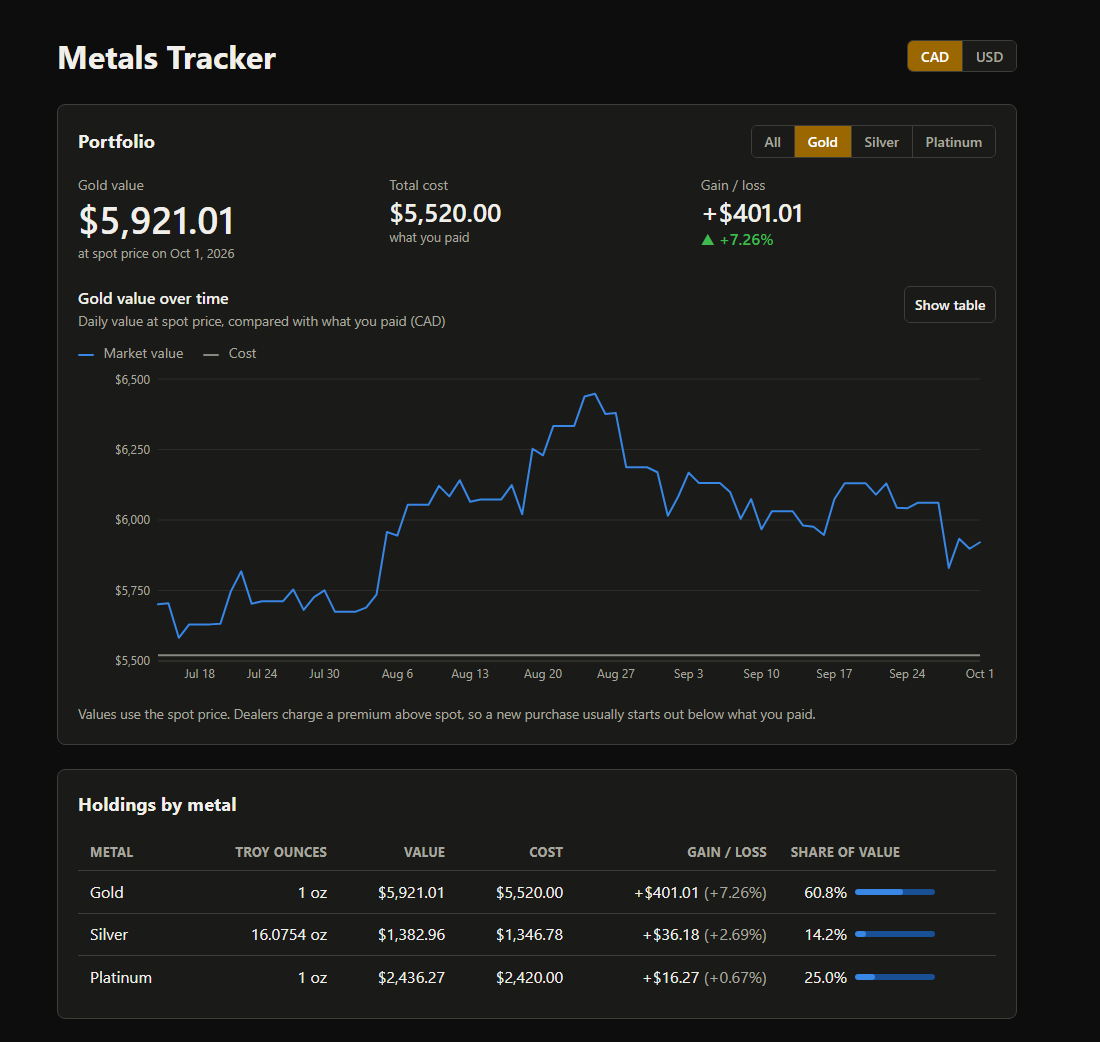
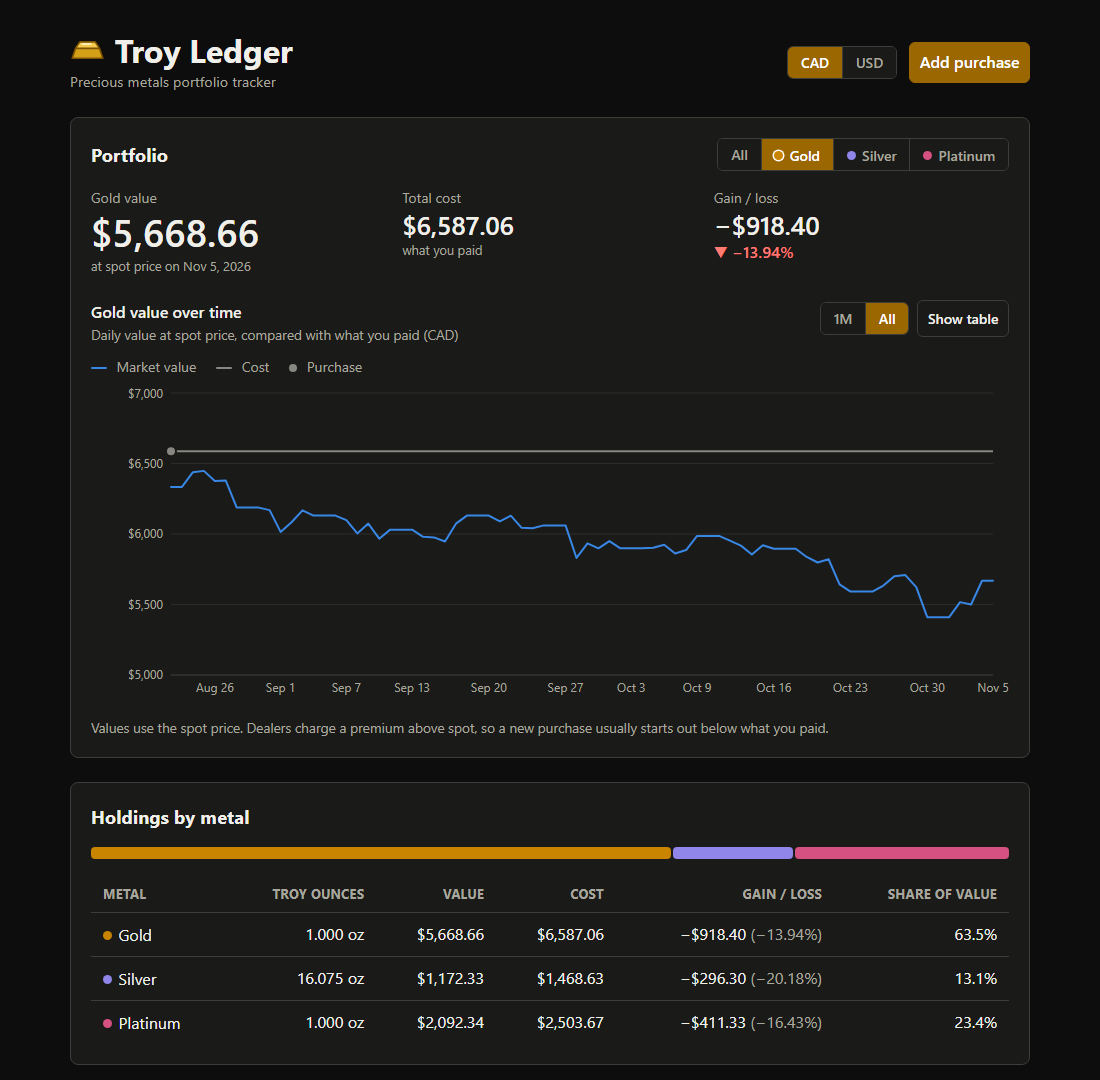
Update README screenshots and feature list

diff --git a/README.md b/README.md
@@ -28,12 +28,16 @@ while, the first load can take up to a minute while the server starts.
 - **Log purchases** in grams, troy ounces or kilograms, paid in CAD or USD. Weights are
   converted to troy ounces for calculations, and the original entry is kept for display.
 - **Portfolio value over time**: a daily chart of market value against cost, with
-  summary figures for value, cost and gain.
+  summary figures for value, cost and gain. Pick a time range (1M to All); hovering
+  shows any day's figures, and dots mark each purchase so new money isn't mistaken
+  for growth.
 - **Filter by metal** to see one metal's performance on its own.
-- **Holdings by metal**: weight, value, cost, gain and share of the portfolio.
+- **Holdings by metal**: weight, value, cost, gain and share of the portfolio, with an
+  allocation bar. Each metal has its own color, checked for color-blind separation.
 - **CAD / USD toggle**: every figure is recalculated on the server in either currency.
+- **Undo** after deleting a purchase.
 - **Automatic daily data** from two APIs, updated by one command or a weekly scheduled task.
-- **Dark mode** that follows the system setting.
+- **Light and dark themes**: follows the system setting, or pick one.
 
 ## Tech stack
 
